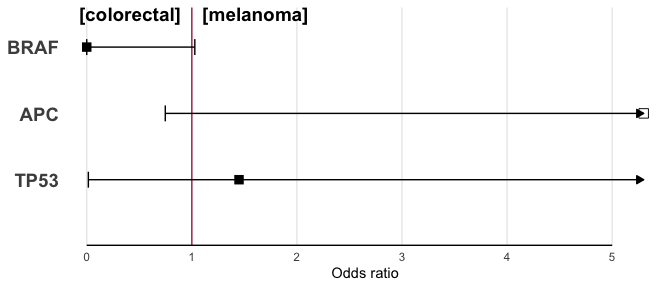
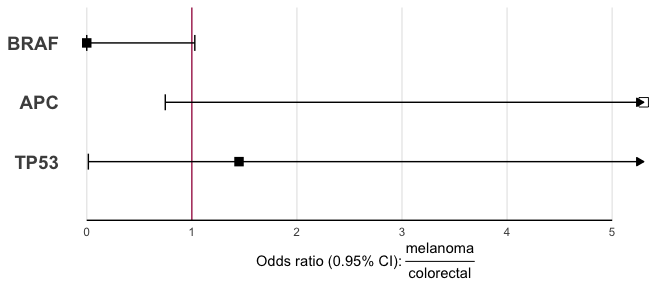
fix: dropped annotations, added odds ratio to xlab

diff --git a/README.md b/README.md
@@ -45,6 +45,7 @@ input <- list(
 contingency_tables <- list_to_contingency_tables(input)
 
 # Step 3: Compute fisher p values & odds ratios
+# Odds ratios can be interpreted as the relative odds of seeing gene <X> in a colorectal cancer VS melanoma (based on order of cohorts in original input list)
 comparison <- contingency_tables_to_fisher(contingency_tables)
 
 # Step 4: Sort results based on fdr and print result
